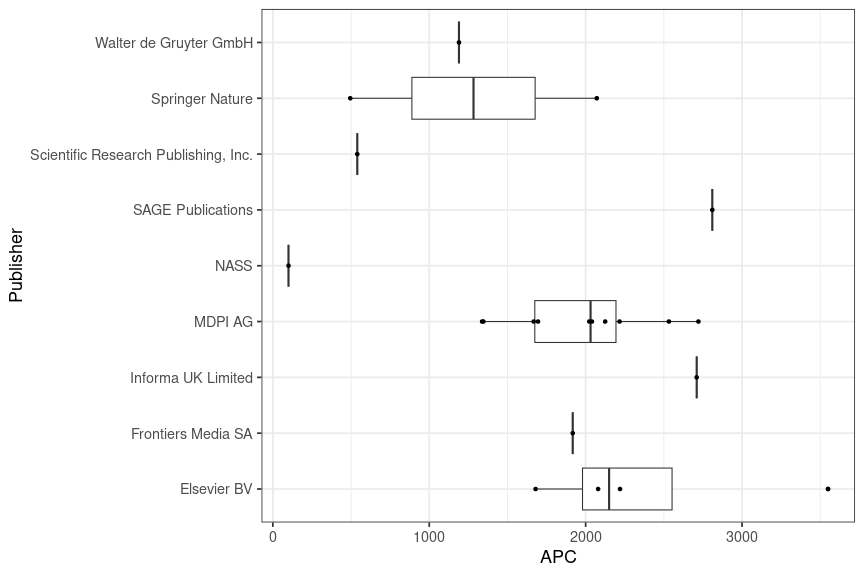
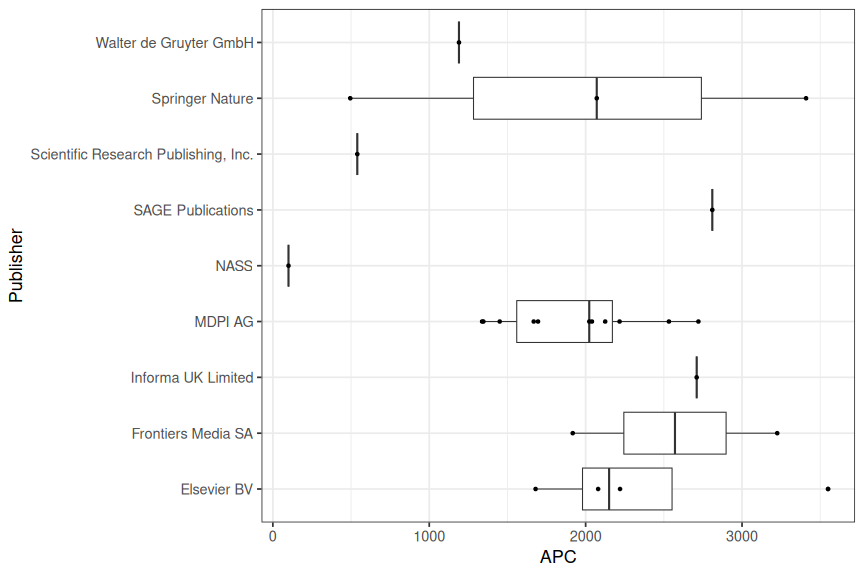
update: th koeln joins openapc

diff --git a/_posts/2024-10-14-thkoeln.md b/_posts/2024-10-14-thkoeln.md
@@ -24,17 +24,17 @@ Contact Person is [Kerstin Klein](mailto:kerstin.klein1@th-koeln.de).
 
 
 
-The initial data set provided by the TH Köln covers publication fees for 22 articles, total expenditure amounts to 41,069€ and the average fee is 1,867€. Please note that neither articles published in **hybrid** journals under the DEAL agreement nor BPCs are included in this list, as they are aggregated in OpenAPC's [transformative agreements](https://github.com/OpenAPC/openapc-de/tree/master/data/transformative_agreements) and [BPC](https://github.com/OpenAPC/openapc-de/blob/master/data/bpc.csv) datasets, respectively.
+The initial data set provided by the TH Köln covers publication fees for 25 articles, total expenditure amounts to 49,154€ and the average fee is 1,966€. Please note that neither articles published in **hybrid** journals under the DEAL agreement nor BPCs are included in this list, as they are aggregated in OpenAPC's [transformative agreements](https://github.com/OpenAPC/openapc-de/tree/master/data/transformative_agreements) and [BPC](https://github.com/OpenAPC/openapc-de/blob/master/data/bpc.csv) datasets, respectively.
 
 
 
 
 |                                            | Articles| Fees paid in EURO| Mean Fee paid|
 |:-------------------------------------------|--------:|-----------------:|-------------:|
-|MDPI AG                                     |       10|             19706|          1971|
+|MDPI AG                                     |       11|             21157|          1923|
 |Elsevier BV                                 |        4|              9530|          2382|
-|Springer Nature                             |        2|              2566|          1283|
-|Frontiers Media SA                          |        1|              1917|          1917|
+|Springer Nature                             |        3|              5975|          1992|
+|Frontiers Media SA                          |        2|              5142|          2571|
 |Informa UK Limited                          |        1|              2710|          2710|
 |Nan Yang Academy of Sciences Pte Ltd (NASS) |        1|               100|           100|
 |SAGE Publications                           |        1|              2810|          2810|
